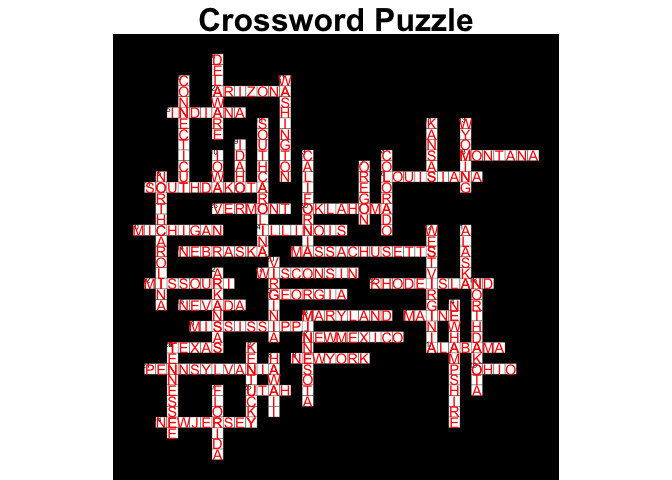
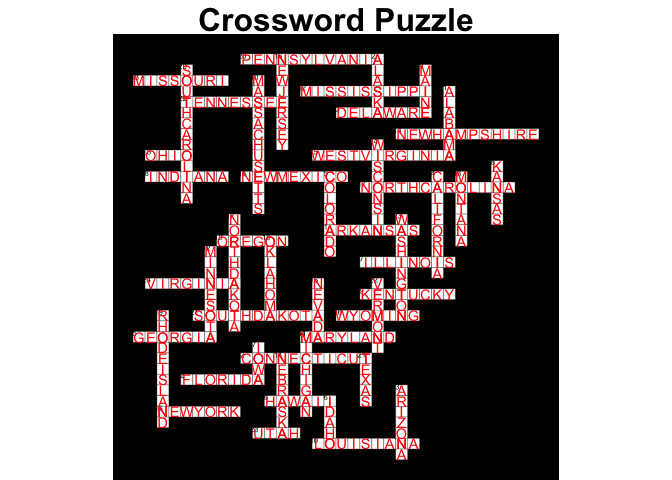
update readme

Changed region(s): [[0.1875, 0.0938, 0.8125, 0.9688]]

diff --git a/readme.md b/readme.md
@@ -2,6 +2,7 @@
 -   [Worrrd](#worrrd)
     -   [Install worrrd](#install-worrrd)
     -   [Wordsearch](#wordsearch)
+    -   [Crossword Puzzle](#crossword-puzzle)
 
 <!-- README.md is generated from README.Rmd. Please edit that file -->
 
@@ -37,6 +38,7 @@ x <- wordsearch(words, r = 20, c = 20)
 #> Found positions for 7/7 words.
 plot(x, solution = TRUE)
 #> Loading required package: ggplot2
+#> Warning: package 'bindrcpp' was built under R version 3.4.4
 ```
 
 ![](man/figures/README-wordsearch-easy-1.png)
@@ -53,7 +55,22 @@ plot(x, solution = TRUE, letter_size = 2)
 
 ![](man/figures/README-wordsearch-hard-1.png)
 
-#### Crossword Puzzle
+#### Custom Shapes
+
+Wait, what? You want to make it in the shape of a banana? I mean, that's kinda weird... but why not!
+
+``` r
+banana <- "https://upload.wikimedia.org/wikipedia/commons/9/96/Tux_Paint_banana.svg"
+words <- c("banana", "apple", "grapes", "orange", "pear", "kumquat")
+x <- wordsearch(words, r = 20, c = 20, image = banana)
+#> Warning in req$status: partial match of 'status' to 'status_code'
+#> Found positions for 6/6 words.
+plot(x, solution = TRUE)
+```
+
+![](man/figures/README-wordsearch-banana-1.png)
+
+### Crossword Puzzle
 
 Oh, you're one of the more sophicated types that craves a crossword puzzle? Worrrd.
 
@@ -65,7 +82,7 @@ x <- crossword(words, clues, r = 40, c = 40)
 x
 #> Crossword Puzzle
 #> Contains 50 clues.
-#> There are 23 across and 27 down.
+#> There are 24 across and 26 down.
 ```
 
 ``` r
